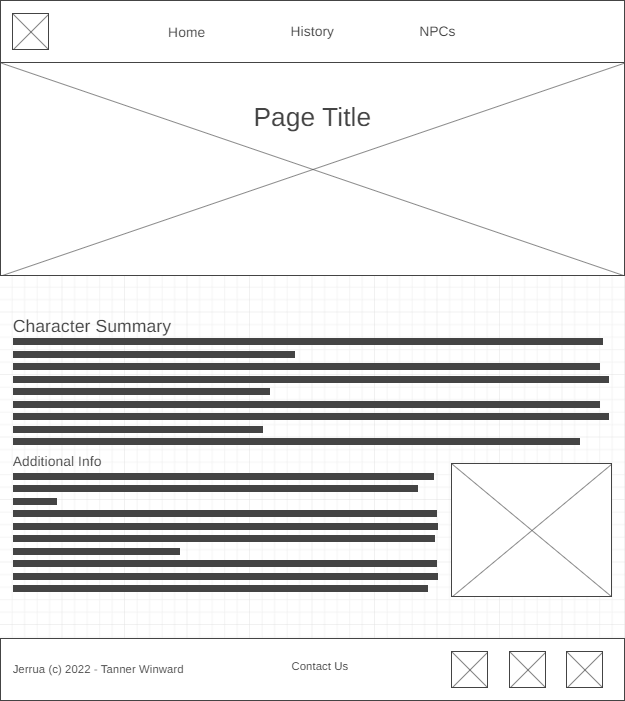
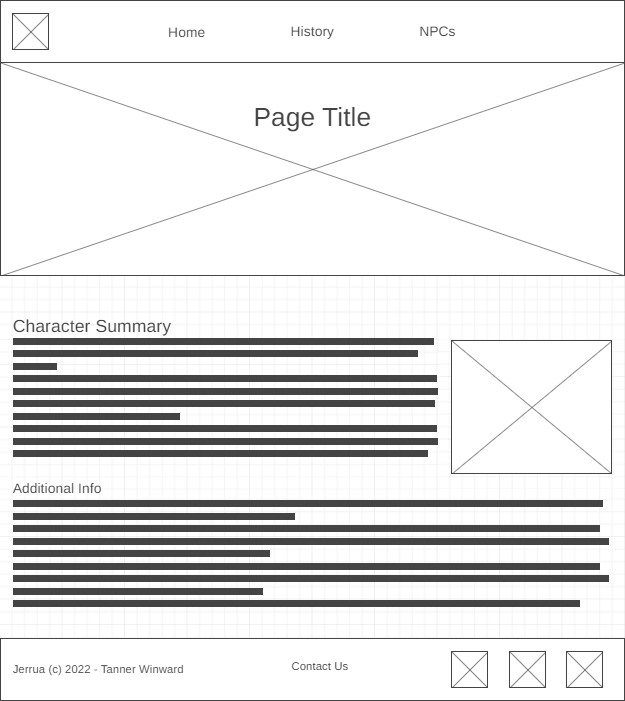
NPCs css adjust; wireframe adjust

Changed region(s): [[0.0, 0.4793, 0.9728, 0.8688]]

diff --git a/jerrua/npcs.html b/jerrua/npcs.html
@@ -30,13 +30,13 @@
         <p>
             <h2>Captain Bohja</h2>
             <!-- <img src="images/bohja.png" alt="Captain Bohja"> -->
+            <img class="char-img" src="images/titans-wave.png" alt="Titan's Wave">
             <p>Captain Bohja is a 47-year-old dark-skinned human male, with a chaotic-good alignment. He is 5’10 and 180 lbs., with brown eyes and long black hair and a neatly trimmed beard. He usually dresses in white, black, and purple with gold embellishments. He has sharp, discerning eyes, carries himself with subtle confidence, and is rippling with muscle (+3 or +4 Strength). He definitely isn’t the kind of person you want to get into a brawl against. Captain Bohja is a fairly lighthearted person, full of confidence, integrity, and wisdom. Think Uncle Iroh, just maybe not quite that wise or that bonkers.
             <p>Bohja grew up in Jerrua and began sailing young. He has been the captain of his own ship and crew for nearly 20 years. He has a family living in Silverwalk (a wife, and 11yo son), and his 19yo daughter is his first mate on his whaling crew (a crew consisting of 29 other people, for a total of 31).
             <h3>Additional Information</h3>
             <p><b>Skills & Languages:</b> Sailing, Navigation, a little bit of carpentry, and several miscellaneous minor skills. Languages he speaks are ‘Common,’ and ‘Sea Jargon.’
             <p><b>Items & Belongings:</b> Bohja’s most precious possession is his whaleship, the <i>Titan's Wave</i>. he goes almost nowhere without his trusty rapier and telescope, and tries whenever possible to carry a single health potion. He wears a necklace with the symbol of Maras around his neck, and a symbol of Rihn hanging from his belt; a keen observer will notice that he wears five more symbols, each to the other Maidens, in various places. He wears some jewelry–mostly gold, but some silver, platinum, gemstones, and even glazed beads–but not a gaudy amount.
             <p><b>Ideals:</b> “The sea is freedom–the freedom to go anywhere and do anything!”
-                <img class="char-img" src="images/titans-wave.png" alt="Titan's Wave">
             <p>“My loyalties lie with my family and my crew, not some abstract ideal.”
             <p><b>Bonds:</b> “I love the sea but everything I do, I do for my family.”
             <p><b>Flaws:</b> “There is no room for caution in a life lived to the fullest.”

diff --git a/jerrua/styles/style.css b/jerrua/styles/style.css
@@ -188,8 +188,9 @@ main p {
 
 /* --- NPCS --- */
 .char-img {
-    width: 40%;
+    width: 49%;
     float: right;
+    margin-top: 20px;
     margin-left: 10px;
 }
 
